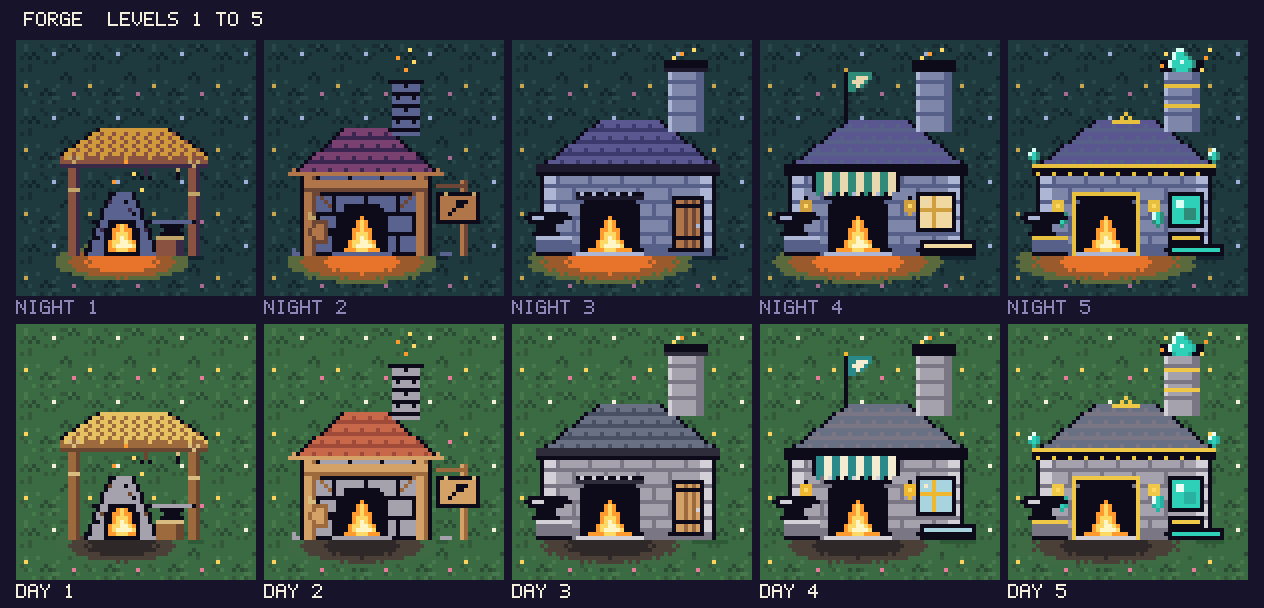
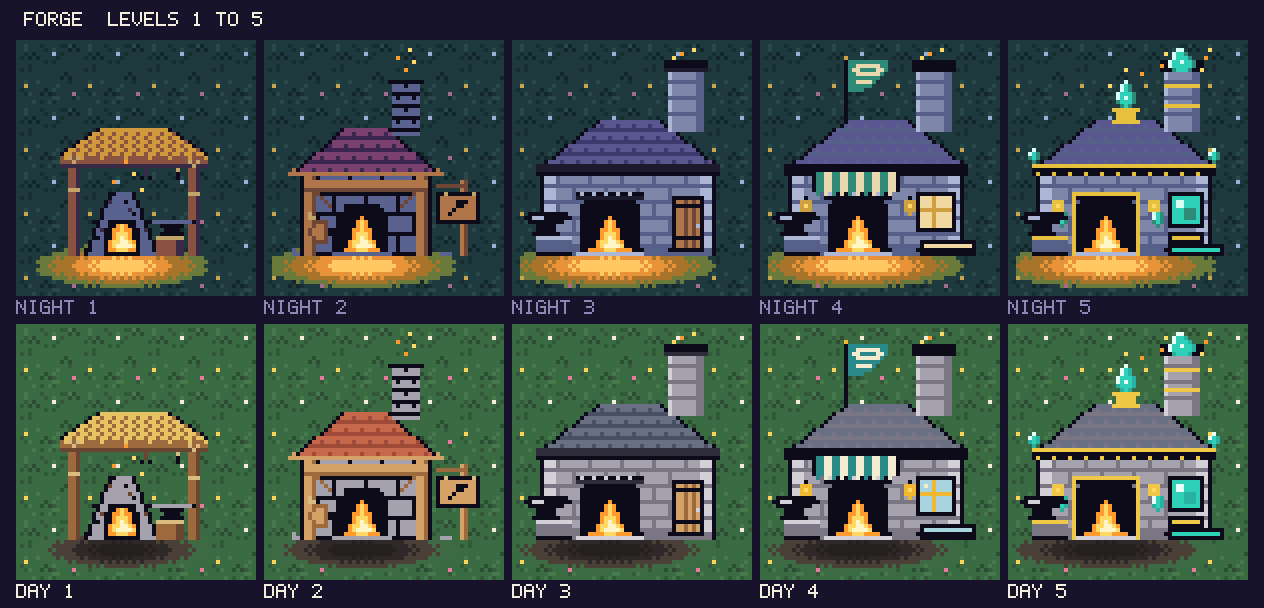
Forge: four-tone gold ember glow, bigger level 4 pennant and level 5 spire
Claude-Session: https://claude.ai/code/session_01TqJ8tUAM4Muj4eb7wE4uc8

diff --git a/apps/activity/src/sprites/concepts/valley-levels-forge.ts b/apps/activity/src/sprites/concepts/valley-levels-forge.ts
@@ -56,14 +56,15 @@ const box = (g: Grid, x: number, y: number, w: number, h: number, fill: string):
 
 /** The ember glow on the ground: stepped rings, dithered at each step, in front of the fire at column fx. */
 function glow(g: Grid, fx: number, rx: number, ry: number): void {
-  const cy = 53;
+  const cy = 54;
   for (let y = 0; y < H; y++)
     for (let x = 0; x < W; x++) {
       const d = ((x - fx) / rx) ** 2 + ((y - cy) / ry) ** 2;
       const odd = (x + y) % 2 === 1;
       let c = '.';
-      if (d < 0.22 || (d < 0.3 && !odd)) c = '3';
-      else if (d < 0.55 || (d < 0.66 && !odd)) c = '2';
+      if (d < 0.1 || (d < 0.15 && !odd)) c = '4';
+      else if (d < 0.28 || (d < 0.36 && !odd)) c = '3';
+      else if (d < 0.58 || (d < 0.68 && !odd)) c = '2';
       else if (d < 0.9 || (d < 1 && !odd)) c = '1';
       if (c !== '.') px(g, x, y, c);
     }
@@ -133,22 +134,22 @@ function roof(
 
 const OWN_NIGHT = {
   k: '#0d0a1a',
-  x: '#112430',
   o: '#ff9a2e',
   y: '#ffd966',
   c: '#fff6c8',
-  '1': '#5a6a3c',
-  '2': '#9a5a2c',
-  '3': '#e8742c',
+  '1': '#6a7a3a',
+  '2': '#a8742c',
+  '3': '#e8923a',
+  '4': '#ffc860',
 };
 const OWN_DAY = {
-  x: '#2f5a38',
   o: '#ff9a2e',
   y: '#ffd966',
   c: '#fff6c8',
   '1': '#3e6a44',
   '2': '#4a4038',
   '3': '#2e2828',
+  '4': '#242020',
 };
 type Part = { palette: Record<string, string>; day: Record<string, string> };
 const IRON: Part = { palette: { i: '#1c1a2c' }, day: { i: '#2e2c3a' } };
@@ -180,8 +181,7 @@ const finish = (
 function forge1(): Built {
   const g = blank();
   const FX = 24;
-  rect(g, 9, 52, 36, 1, 'x');
-  glow(g, FX, 17, 5);
+  glow(g, FX, 22, 5.5);
   // lean-to: two crooked posts, a crossbeam, a straw roof
   rect(g, 11, 28, 3, 24, 'L');
   rect(g, 13, 28, 1, 24, 'M');
@@ -274,8 +274,7 @@ function forge1(): Built {
 function forge2(): Built {
   const g = blank();
   const FX = 22;
-  rect(g, 4, 52, 40, 1, 'x');
-  glow(g, FX, 19, 5.5);
+  glow(g, FX, 24, 5.5);
   // fieldstone walls with a timber frame
   masonry(g, 8, 32, 31, 20, 'F', 'k', 5);
   rect(g, 7, 31, 33, 1, 'k');
@@ -408,8 +407,7 @@ const BIG_ANVIL = [
 function forge3(): Built {
   const g = blank();
   const FX = 22;
-  rect(g, 4, 52, 48, 1, 'x');
-  glow(g, FX, 21, 5.5);
+  glow(g, FX, 27, 5.5);
   stoneSmithy(g, FX);
   dots(g, [
     [40, 1, 'o'],
@@ -438,8 +436,7 @@ function forge3(): Built {
 function forge4(): Built {
   const g = blank();
   const FX = 22;
-  rect(g, 4, 52, 48, 1, 'x');
-  glow(g, FX, 22, 5.5);
+  glow(g, FX, 27, 5.5);
   stoneSmithy(g, FX, 'G', 'k');
   dots(g, [
     [40, 1, 'o'],
@@ -477,9 +474,18 @@ function forge4(): Built {
   rect(g, 4, 51, 9, 1, 'k');
   stamp(g, 1, 41, BIG_ANVIL);
   // the pennant on a pole above the roof
-  rect(g, 19, 6, 1, 13, 'k');
-  px(g, 19, 5, 'b');
-  stamp(g, 20, 6, ['tttttt', 'ttmmmt', 'tmmmt.', 'ttmt..', 'tt....']);
+  rect(g, 19, 3, 1, 16, 'k');
+  px(g, 19, 2, 'b');
+  stamp(g, 20, 3, [
+    'tttttttttt',
+    'ttmmmmmmtt',
+    'tmmttttmmt',
+    'ttmmmmmmt.',
+    'tttttttt..',
+    'ttmmmmt...',
+    'tttttt....',
+    'tttt......',
+  ]);
   return finish(
     g,
     [
@@ -496,8 +502,7 @@ function forge4(): Built {
 function forge5(): Built {
   const g = blank();
   const FX = 22;
-  rect(g, 4, 52, 48, 1, 'x');
-  glow(g, FX, 23, 5.5);
+  glow(g, FX, 28, 5.5);
   stoneSmithy(g, FX, 'G', 'k');
   // a crystal finial on the chimney, with sparks
   stamp(g, 38, 0, ['..DD....', '.DCCd...', '.DCCCd..', 'DCCDCCd.', 'DCCCCCd.', '.dCCCd..']);
@@ -525,6 +530,15 @@ function forge5(): Built {
   for (const sx of [3, 48]) stamp(g, sx, 25, ['.D.', 'DCd', 'dCd', '.d.']);
   // crystal inlays in the wall either side of the arch
   for (const cx of [10, 34]) stamp(g, cx, 40, ['.D.', 'DCd', 'DCd', 'dCd', '.d.']);
+  // a second crystal spire on the ridge, gold-footed
+  stamp(g, 25, 8, ['..D..', '.DCd.', '.DCd.', 'DCCCd', 'DCDCd', 'dCCCd', '.dCd.']);
+  rect(g, 24, 15, 7, 1, 'Z');
+  rect(g, 25, 16, 5, 2, 'Z');
+  dots(g, [
+    [23, 9, 'y'],
+    [31, 6, 'o'],
+    [27, 5, 'y'],
+  ]);
   // a crystal pane in a gold frame, lit by day too
   box(g, 38, 36, 9, 9, 'Z');
   rect(g, 39, 37, 7, 7, 'C');

diff --git a/docs/art/README.md b/docs/art/README.md
@@ -224,7 +224,7 @@ Status: **liked** means Misa approved the look; **draft** means he has not said 
 - **Status:** draft
 - **Requested:** 2026-11-09 (Misa): "Each building can absolutely change building material as it upgrades in levels ... Naturally a forge can't be made of wood, but it can have wooden elements on it ... Think of how Clash of Clans brings a new look with each new town hall level."
 - **Source:** `apps/activity/src/sprites/concepts/valley-levels-forge.ts` (draw it with `pnpm art valley-levels-forge`)
-- **Sheet of:** `599842ca870e`
+- **Sheet of:** `d75c1105b5dd`
 - Five levels on one 56x60 canvas, all standing on row 51, centred; smaller levels leave the top and sides empty. Colours from valley-tiers, 16 or fewer per sprite.
 - Night is the main palette with the ember glow lying on the ground in stepped rings in front of the fire; alts.day is the same pixels with the fire still lit and a soot-dark yard.
 - Level 1 Humble: an open-air smithy: a fieldstone hearth mound with a small fire, a stump with a small anvil, a crooked rope-lashed log frame under a straw roof.
